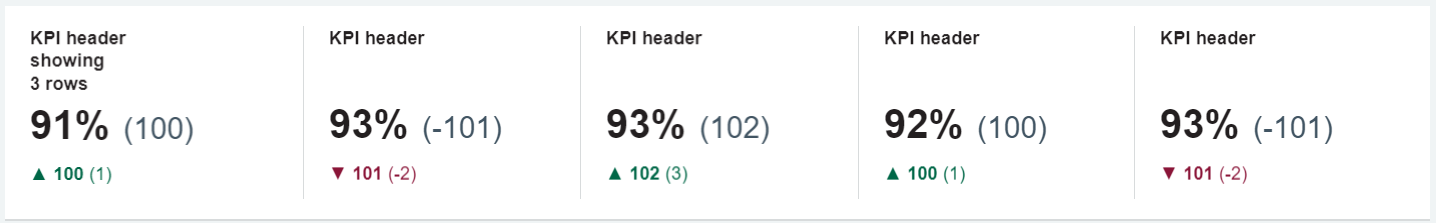
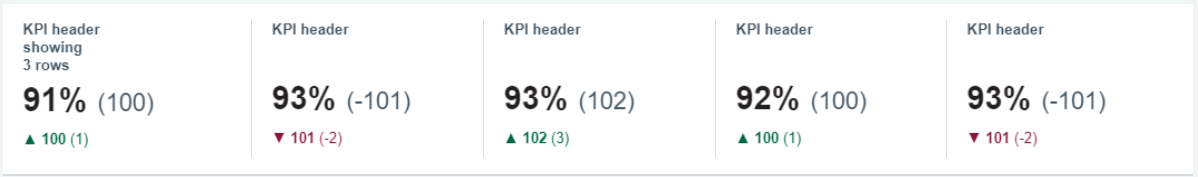
KPI updates, card updates, table updates and download template updates

diff --git a/docs/dashboard_design/kpis.md b/docs/dashboard_design/kpis.md
@@ -6,10 +6,10 @@ KPIs provide key information to the user at a single glance.
 ???+ tip "KPIs - Best practices"
     - [x] The width of the KPI slots should change based on the screen size (not the spacing between them). The space between each KPI slot should always be 8px.
     - [x] If there is any description available for the KPIs that has to be shown in a tooltip on rollover the KPI slot.
-    - [x] There can be any number of KPIs shown on a dashboard (we suggest not more than 10) but a minimum of four and a maximum of five slots should be allocated per row to display the KPIs.
+    - [x] There can be any number of KPIs shown on a dashboard (we suggest not more than a total of 10) and a maximum of five slots should be allocated per row to display the KPIs.
     - [x] If there are <5 KPIs then we use blank spaces for the remaining slots out of five.
     - [x] <p class="inline-container">If a KPI slot has a click-through, then its metric title should appear in NHS Blue <span class="inline-container-pill" style="--colour: #005EB8;"><span class="inline-colour-square" style="--colour: #005EB8; width: 15px; height: 15px"></span>#005EB8</span> along with an arrow</p>
-    - [x] <p class="inline-container">If a KPI slot does not have a click-through, then its metric title should be in NHS Black <span class="inline-container-pill" style="--colour: #212B32;"><span class="inline-colour-square" style="--colour: #212B32; width: 15px; height: 15px"></span>#212B32</span> without an arrow</p>
+    - [x] <p class="inline-container">If a KPI slot does not have a click-through, then its metric title should be in NHS Dark Grey <span class="inline-container-pill" style="--colour: #425563;"><span class="inline-colour-square" style="--colour: #425563; width: 15px; height: 15px"></span>#425563</span> without an arrow</p>
     - [ ] There should not be a mix of interactive and non-interactive KPIs on the dashboard
     - [x] Titles for KPIs will be pulled dynamically from the data, so during the testing, if we notice the titles are long then increase the height of these KPI slots.
 
@@ -28,6 +28,7 @@ Example of number of KPIs in a row
 </div>
 
 ## KPIs with long titles
+Refer to the templates for container set-up and padding specification
 
 ![KPIs with long titles](images/KPI_long_titles.png){ data-title="KPIs per row" data-description=".custom-desc3" data-caption-position="left" data-gallery="kpi"}
 <div class="glightbox-desc custom-desc3">
@@ -46,7 +47,7 @@ Example of number of KPIs with empty slots
 ## KPIs variations
 
 ### Interactive KPIs
-If a KPI slot has a click-through, then its title should appear in <font color="#005EB8">**blue (#005EB8)**</font> along with an arrow.
+<p class="inline-container">If a KPI slot has a click-through, then its title should appear in NHS Blue <span class="inline-container-pill" style="--colour: #005EB8;"><span class="inline-colour-square" style="--colour: #005EB8; width: 15px; height: 15px"></span>#005EB8</span> along with an arrow.</p>
 
 ![Interactive KPIs](images/KPI_row.png){ data-title="Interactive KPIs" data-description=".custom-desc5" data-caption-position="left" data-gallery="kpi"}
 <div class="glightbox-desc custom-desc5">
@@ -54,7 +55,7 @@ Example of interactive KPIs
 </div>
 
 ### Non-interactice KPIs
-If a KPI slot does not have a click-through it should be in **black (#212B32)** without an arrow.
+<p class="inline-container">If a KPI slot does not have a click-through it should be in NHS Dark Grey <span class="inline-container-pill" style="--colour: #425563;"><span class="inline-colour-square" style="--colour: #425563; width: 15px; height: 15px"></span>#425563</span> without an arrow.</p>
 
 ![Non interactice KPIs](images/KPI_variations_black.png){ data-title="Non interactice KPIs" data-description=".custom-desc6" data-caption-position="left" data-gallery="kpi"}
 <div class="glightbox-desc custom-desc6">

diff --git a/docs/dashboard_design/tables.md b/docs/dashboard_design/tables.md
@@ -2,7 +2,7 @@
 Always assess the information you are working with and display it in the clearest style possible. This section demonstrates a number of ways to present information.
 
 ## Best practices
-???- tip "Simplicity"
+???+ tip "Simplicity"
     - [x] Minimal use of borders, with a few line rules to distinguis column headings and totals.
     - [x] White space is used to separate columns.
     - [x] Title and subheadings are in bold so that they stand out.
@@ -31,7 +31,7 @@ Always assess the information you are working with and display it in the cleares
 ## Thin tables
 - Minimise the data-ink ratio
 - Right align column header and numerical values
-- Font sizes as in the <a href="../typography">typography list</a>.
+- Font sizes as in the [typography list](../typography/#font-specification)
 - Header text alignment should be vertical middle and right
 
 ![Thin tables](images/thin_tables.png){ data-title="Thin tables" data-description=".custom-desc1" data-caption-position="left" data-gallery="tables"}
@@ -65,6 +65,7 @@ Example of a text table
 National standards should be clearly labelled in a table or chart wherever applicable.
 
  - If multiple metrics with multiple difference national standards are shown, label these in the table
+
 ![National standards table](images/national_standards_table.png){ width="500px" data-title="National standards table" data-description=".custom-desc4" data-caption-position="left" data-gallery="tables"}
 <div class="glightbox-desc custom-desc4">
 Example of a national standards table
@@ -73,6 +74,7 @@ Example of a national standards table
 
  - To highlight whether national standards are met in a table, colour the text in RAG colours or add a background 20% RAG colour. 
 RAG rating should only be used where there is a national standard being met or not met, otherwise it should not be used.
+
 ![National standards table](images/rag_table.png){width="500px" data-title="National standards table" data-description=".custom-desc5" data-caption-position="left" data-gallery="tables"}
 <div class="glightbox-desc custom-desc5">
 Example of a RAG table

diff --git a/docs/dashboard_design/information.md b/docs/dashboard_design/information.md
@@ -15,8 +15,9 @@ For the user looking at your dashboard, context is everything. Information and m
     - [x] Release number and year of creation
     - [x] Information on how to share the dashboard with colleagues should be included on this page
 
+***
 
-### Example information page from the tableau templates:
+Example information page from the tableau templates:
 
 ![Information / about page](images/information_page.png){ data-title="Information / about page" data-description=".custom-desc1" data-caption-position="left" data-gallery="information"}
 <div class="glightbox-desc custom-desc1">
@@ -34,12 +35,11 @@ Analytical users want to better understand the data behind the graphs and tables
     - [x] Include numerator
     - [x] Include denominator
     - [x] Include calculation details of each metric
-    - [x] Use descriptions from the MIDAS* library
-
-    *MIDAS is a centralised indicator governance service. It applies standardised approaches to improve the use and consistency of metrics and addresses the efficacy and quality of indicators in use. 
 
 
-### Example metric description page from the tableau templates:
+***
+
+Example metric description page from the tableau templates:
 
 ![Metric descriptions page](images/metrics_page.png){ data-title="Metric descriptions page" data-description=".custom-desc1" data-caption-position="left" data-gallery="information"}
 <div class="glightbox-desc custom-desc1">

diff --git a/docs/dashboard_design/cards.md b/docs/dashboard_design/cards.md
@@ -9,7 +9,7 @@ Example of cards
 
 When multiple elements are within a single card (such as filters or KPIs) then these are separated by grey dividers.
 
-![Dividers within a card](images/KPI_row.png){ data-title="Dividers within a card" data-description=".custom-desc2" data-caption-position="left" data-gallery="cards"}
+![Dividers within a card](images/cards_multiple.png){ data-title="Dividers within a card" data-description=".custom-desc2" data-caption-position="left" data-gallery="cards"}
 <div class="glightbox-desc custom-desc2">
 Example dividers within a card
 </div>
@@ -43,7 +43,7 @@ The easiest way is to use and create cards is to start with the <a href="../../d
     - [x] The outer padding of each element should be 1px left (apart from the furthest left filter) to give the dividers
     - [x] All elements within the card should be in equal width
 
-![Multiple element card](images/KPI_row.png){ data-title="Multiple element card" data-description=".custom-desc4" data-caption-position="left" data-gallery="cards"}
+![Multiple element card](images/cards_multiple.png){ data-title="Multiple element card" data-description=".custom-desc4" data-caption-position="left" data-gallery="cards"}
 <div class="glightbox-desc custom-desc4>
 Example of the design of a multiple element card
 </div>

diff --git a/docs/dashboard_design/download_templates.md b/docs/dashboard_design/download_templates.md
@@ -7,7 +7,9 @@
 
 !!! download "Empty templates download link"
 
-    Download the empty templates by <a href="../../files/NHS_England_dashboard_templates_empty.twbx">clicking here</a>
+    [Download the empty templates](../../files/NHS_England_dashboard_templates_empty.twbx) directly or [view the empty templates](https://tabanalytics.data.england.nhs.uk/#/site/Public/workbooks/10724/views) on the NHS England public server.
+
+    
 
 
 **How to use the empty templates:**
@@ -40,8 +42,7 @@ Screenshot of the empty NHS England dashboard templates
 
 !!! download "Populated templates download link"
 
-    Download the populated templates by <a href="../../files/NHS_England_dashboard_templates.twbx">clicking here</a>
-
+    [Download the populated templates](../../files/NHS_England_dashboard_templates.twbx) directly or [view the populated templates](https://tabanalytics.data.england.nhs.uk/#/site/Public/workbooks/10723/views) on the NHS England public server.
 
 **How to use the populated templates:**
 

diff --git a/docs/dashboard_design/typography.md b/docs/dashboard_design/typography.md
@@ -10,7 +10,7 @@ Typefaces are an important element of the NHS identity. The consistent applicati
     - Use "<ins>S</ins>entence case"  for dashboard titles
 
 
-## Best Practices
+## Best practices
 
 ???+ success "Typography - Best practices"
     - [x] Use concise language, which is to the point and easy to understand
@@ -24,7 +24,7 @@ Typefaces are an important element of the NHS identity. The consistent applicati
 
 ![example dashboard layout with font specification](images/font-specification-example.PNG "Example dashboard layout with NHS Font specification applied")
 
-## Font Specification
+## Font specification
 
 Here is a summary of the most important dashboard objects and their font specification that you must use in your dashboard:
 
